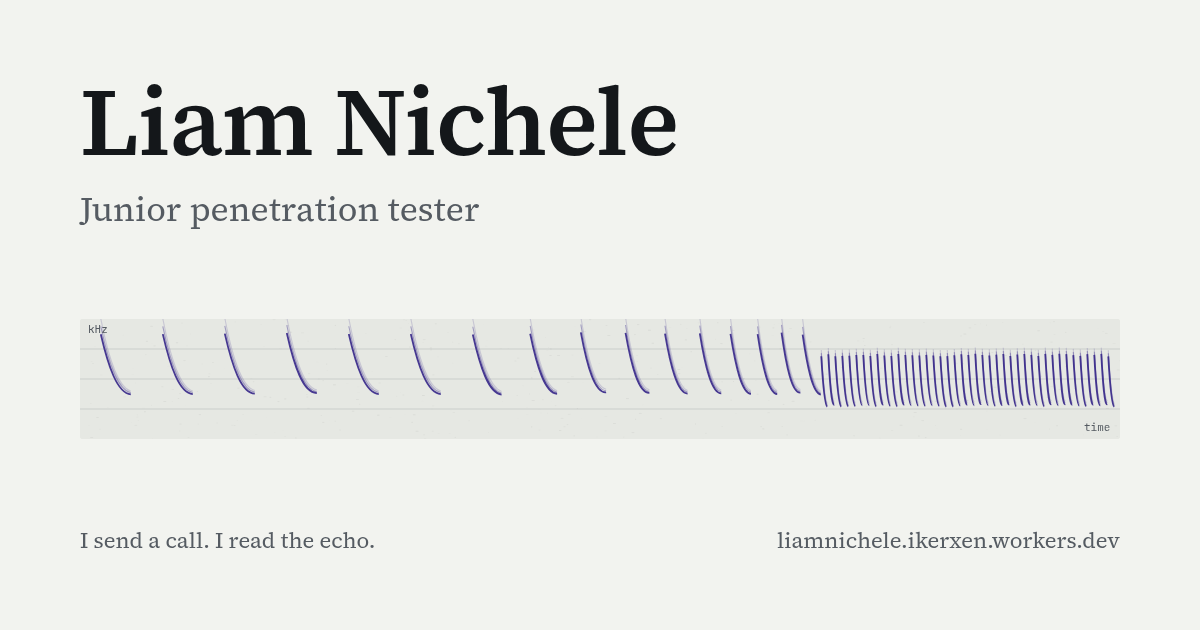
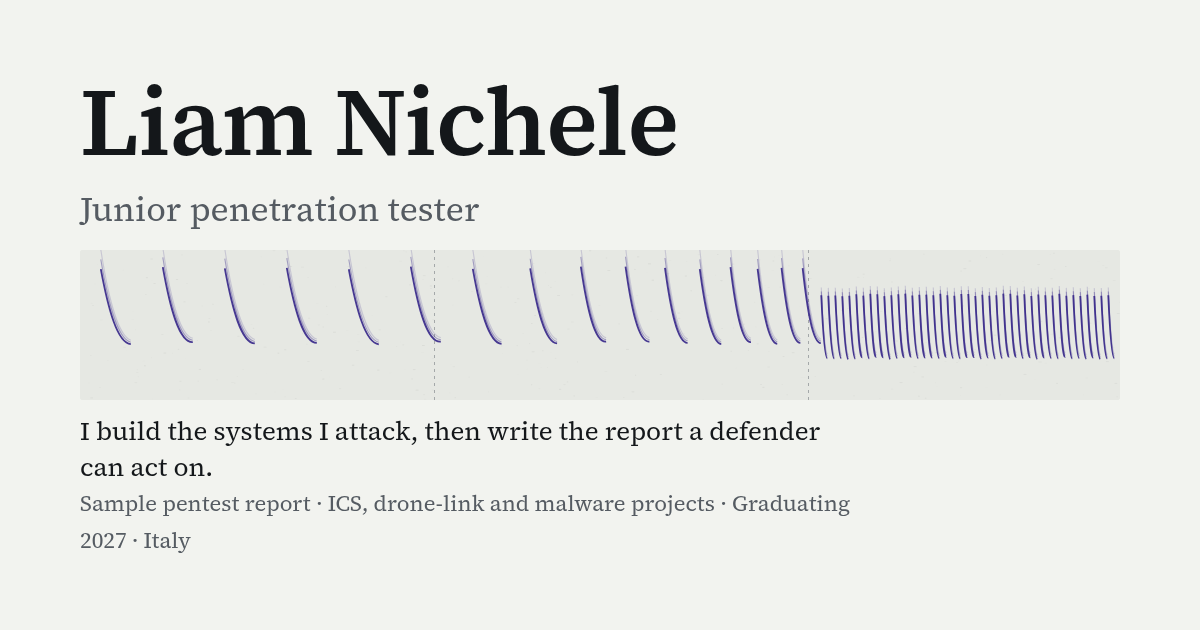
Remove hero spectrogram and slogan; label the bat-hunt illustration in How I work; drop axes; new og image

diff --git a/site-deploy/js/site.js b/site-deploy/js/site.js
@@ -1,11 +1,10 @@
-/* The only moving element: the bat-call spectrogram in the hero. It draws once on load (about 1.2 s)
-   and the "Send a call" button replays it. The second spectrogram in "How I work" is static.
-   Reduced motion: the final frame is drawn at once and the button is hidden by CSS.
-   The animation loop only runs while a draw is in progress, and stops if the tab is hidden. */
+/* One illustration, drawn once: the bat-hunt spectrogram in "How I work". It is static, nothing moves.
+   Search calls are slow and long, approach calls get faster and shorter, the terminal buzz is rapid.
+   Redrawn only on resize or when the colour scheme changes. No axes or scale: it is an illustration. */
 (function () {
   "use strict";
-  var reduce = window.matchMedia("(prefers-reduced-motion: reduce)").matches;
   var dpr = Math.min(window.devicePixelRatio || 1, 2);
+  var canvas = document.getElementById("spec2");
 
   function css(name) { return getComputedStyle(document.documentElement).getPropertyValue(name).trim(); }
   function rand(seed) { var s = seed; return function () { s = (s * 16807) % 2147483647; return s / 2147483647; }; }
@@ -14,9 +13,8 @@
     return "rgba(" + parseInt(h.substr(0, 2), 16) + "," + parseInt(h.substr(2, 2), 16) + "," + parseInt(h.substr(4, 2), 16) + "," + a + ")";
   }
 
-  /* Draw the hunt from the left edge up to progress (0..1). Search calls are slow and long, approach calls
-     get faster and shorter, the terminal buzz is rapid, short and lower. */
-  function draw(canvas, progress) {
+  function draw() {
+    if (!canvas) return;
     var w = canvas.clientWidth, h = canvas.clientHeight;
     if (!w || !h) return;
     var bw = Math.round(w * dpr), bh = Math.round(h * dpr);
@@ -26,14 +24,16 @@
     var bg = css("--exhibit"), ink = css("--ink"), muted = css("--muted"), accent = css("--accent");
     g.fillStyle = bg; g.fillRect(0, 0, w, h);
     var r = rand(42);
-    for (var i = 0; i < 500; i++) {
-      g.fillStyle = rgba(ink.length === 7 ? ink : "#888888", r() * 0.05);
+    for (var i = 0; i < 450; i++) {
+      g.fillStyle = rgba(ink, r() * 0.05);
       g.fillRect(r() * w, r() * h, 1 + r() * 2, 1);
     }
-    g.strokeStyle = rgba(muted.length === 7 ? muted : "#888888", 0.18); g.lineWidth = 1;
-    for (var k = 1; k < 4; k++) { g.beginPath(); g.moveTo(0, h * k / 4); g.lineTo(w, h * k / 4); g.stroke(); }
-    var limit = w * progress, x = w * 0.02;
-    while (x < w * 0.99 && x <= limit) {
+    /* phase boundaries, matching the labels above and below the picture */
+    g.strokeStyle = rgba(muted, 0.45); g.lineWidth = 1; g.setLineDash([3, 4]);
+    [0.34, 0.7].forEach(function (p) { g.beginPath(); g.moveTo(Math.round(w * p) + 0.5, 0); g.lineTo(Math.round(w * p) + 0.5, h); g.stroke(); });
+    g.setLineDash([]);
+    var x = w * 0.02;
+    while (x < w * 0.99) {
       var p = x / w;
       var gap = p < 0.34 ? 62 : p < 0.7 ? 62 - (p - 0.34) / 0.36 * 44 : 7;
       var len = p < 0.34 ? 30 : p < 0.7 ? 30 - (p - 0.34) / 0.36 * 12 : 6;
@@ -51,43 +51,13 @@
       }
       x += gap;
     }
-    g.fillStyle = muted; g.font = "11px 'JetBrains Mono',monospace";
-    g.fillText("kHz", 8, 14);
-    g.fillText("time", w - 36, h - 8);
   }
-
-  var hero = document.getElementById("spec");
-  var still = document.getElementById("spec2");
-  var raf = 0;
-
-  function play() {
-    if (!hero) return;
-    if (reduce) { draw(hero, 1); return; }
-    if (raf) cancelAnimationFrame(raf);
-    var t0 = null, dur = 1200;
-    function step(ts) {
-      if (document.hidden) { raf = 0; draw(hero, 1); return; }
-      if (t0 === null) t0 = ts;
-      var p = Math.min(1, (ts - t0) / dur);
-      draw(hero, p);
-      raf = p < 1 ? requestAnimationFrame(step) : 0;
-    }
-    raf = requestAnimationFrame(step);
-  }
-
-  function renderStill() { if (hero && !raf) draw(hero, 1); if (still) draw(still, 1); }
-
-  var btn = document.getElementById("send");
-  if (btn) btn.addEventListener("click", play);
 
   var rt = 0;
-  window.addEventListener("resize", function () { window.clearTimeout(rt); rt = window.setTimeout(renderStill, 150); });
+  window.addEventListener("resize", function () { window.clearTimeout(rt); rt = window.setTimeout(draw, 150); });
   if (window.matchMedia) {
     var mq = window.matchMedia("(prefers-color-scheme: dark)");
-    if (mq.addEventListener) mq.addEventListener("change", renderStill);
+    if (mq.addEventListener) mq.addEventListener("change", draw);
   }
-
-  function init() { if (still) draw(still, 1); play(); }
-  if (document.readyState === "loading") document.addEventListener("DOMContentLoaded", init); else init();
-  if (document.fonts && document.fonts.ready) document.fonts.ready.then(renderStill);
+  if (document.readyState === "loading") document.addEventListener("DOMContentLoaded", draw); else draw();
 })();

diff --git a/site-deploy/css/site.css b/site-deploy/css/site.css
@@ -60,15 +60,11 @@ section > .wide > h2:first-child,.section-head{border-top:1px solid var(--rule);
 .hero .line{font-size:1.25rem;line-height:1.55;max-width:40ch;margin-bottom:var(--s5)}
 .facts{list-style:none;color:var(--muted);font-size:.9375rem;margin-bottom:var(--s5)}
 .facts li{padding:2px 0}
-.actions{display:flex;flex-wrap:wrap;gap:var(--s3);margin-bottom:var(--s7)}
+.actions{display:flex;flex-wrap:wrap;gap:var(--s3)}
 .btn{display:inline-flex;align-items:center;justify-content:center;min-height:44px;padding:var(--s2) var(--s5);
   font:600 1rem/1.2 var(--serif);text-decoration:none;border:1px solid var(--accent);color:var(--accent);background:none;cursor:pointer;border-radius:3px}
 .btn.primary{background:var(--accent);color:var(--paper)}
 .btn:hover{text-decoration:underline;text-underline-offset:3px}
-.strip{margin:0}
-#spec,#spec2{display:block;width:100%;height:120px;background:var(--exhibit);border-radius:3px}
-.strip figcaption{display:flex;flex-wrap:wrap;gap:var(--s3);align-items:center;justify-content:space-between;margin-top:var(--s3);color:var(--muted);font-style:italic;font-size:.9375rem}
-.send{min-height:44px;padding:var(--s2) var(--s4);font:400 .9375rem/1.2 var(--serif);font-style:normal}
 
 /* findings table */
 .tblwrap{overflow-x:auto}
@@ -112,10 +108,15 @@ details p{margin:var(--s2) 0 var(--s3);font-size:1rem;color:var(--ink)}
 .rq li{padding:var(--s2) 0 var(--s2) 3.25rem;position:relative;border-top:1px solid var(--rule);font-size:1rem}
 .rq li b{position:absolute;left:0;font:400 .8125rem/1.9 var(--mono);color:var(--muted)}
 .timeline-line{color:var(--muted);font-size:.9375rem;margin-top:var(--s4)}
-.phases{display:grid;grid-template-columns:34fr 36fr 30fr;gap:var(--s5);margin-top:var(--s4)}
-.phases h3{font-size:1.125rem;margin-bottom:var(--s1)}
+.hunt{margin:var(--s5) 0 0}
+.hunt-top,.hunt-bottom{display:grid;grid-template-columns:34fr 36fr 30fr}
+.hunt-top span{font-weight:600;font-size:1.0625rem;padding:0 var(--s2) var(--s2);border-left:1px solid var(--rule)}
+.hunt-bottom span{font-size:.9375rem;color:var(--muted);padding:var(--s2) var(--s2) 0;border-left:1px solid var(--rule)}
+.hunt-top span:first-child,.hunt-bottom span:first-child{border-left:0;padding-left:0}
+#spec2{display:block;width:100%;height:140px;background:var(--exhibit);border-radius:3px}
+.hunt figcaption{margin-top:var(--s3);color:var(--muted);font-style:italic;font-size:.875rem}
+.phases{display:grid;grid-template-columns:34fr 36fr 30fr;gap:var(--s5);margin-top:var(--s5)}
 .phases p{font-size:1rem;color:var(--ink)}
-.phases .muted{font-size:.875rem;display:block}
 .rules{margin-top:var(--s7)}
 .rules ol{padding-left:1.4em}
 .rules li{margin:var(--s2) 0}
@@ -165,7 +166,10 @@ footer .wide{display:flex;justify-content:space-between;gap:var(--s4);flex-wrap:
   section{padding-top:var(--s8)}
   nav a:not(.keep){display:none}
   .also ul{grid-template-columns:1fr}
-  .phases{grid-template-columns:1fr}
+  .phases{grid-template-columns:1fr;gap:var(--s3)}
+  .hunt-top span{font-size:.9375rem;padding-left:var(--s1);padding-right:0}
+  .hunt-bottom span{font-size:.8125rem;padding-left:var(--s1);padding-right:0}
+  #spec2{height:110px}
   .case dl{grid-template-columns:1fr;gap:0} .case dd{margin-bottom:var(--s3)}
   .wide{padding:0 var(--s4)}
   /* findings as stacked blocks */
@@ -181,11 +185,10 @@ footer .wide{display:flex;justify-content:space-between;gap:var(--s4);flex-wrap:
 @media (prefers-reduced-motion:reduce){
   html{scroll-behavior:auto}
   *,*::before,*::after{animation:none!important;transition:none!important}
-  .send{display:none}
 }
 @media print{
   :root{--paper:#fff;--ink:#111;--muted:#444;--rule:#bbb;--accent:#222;--exhibit:#f1f1f1;--sev-high:#8a1f14;--sev-med:#7a4d00}
-  header,.skip,.after .btn,.actions,.send,.back{display:none}
+  header,.skip,.after .btn,.actions,.back{display:none}
   body{font-size:11pt;line-height:1.5}
   .rpt .wide{max-width:none;padding:0}
   .finding,.rpt pre,table tr{page-break-inside:avoid}

diff --git a/site-deploy/index.html b/site-deploy/index.html
@@ -56,10 +56,6 @@
       <a class="btn primary" href="mailto:liamnichele@icloud.com">Email me</a>
       <a class="btn" href="/cv/Liam-Nichele-CV.pdf">Download CV (PDF)</a>
     </div>
-    <figure class="strip">
-      <canvas id="spec" role="img" aria-label="Spectrogram of a bat hunt. Calls get faster and shorter from left to right."></canvas>
-      <figcaption><span>I send a call. I read the echo.</span><button class="btn send" id="send" type="button">Send a call</button></figcaption>
-    </figure>
   </div>
 </section>
 
@@ -250,14 +246,17 @@ ATT&amp;CK  : T1029, T1071, T1571, +2 more</pre>
 <section id="method">
   <div class="wide">
     <h2>How I work</h2>
-    <p class="lead">A hunting bat changes its call as it closes in: slow, long calls while searching, faster ones on approach, then a rapid terminal buzz. That is also how I run an engagement.</p>
-    <figure class="strip">
-      <canvas id="spec2" role="img" aria-label="Spectrogram of a bat hunt in three phases: search, approach and terminal buzz."></canvas>
+    <p class="lead">I work like a hunting bat: wide and slow at first, then faster and more precise as I close in.</p>
+    <figure class="hunt">
+      <div class="hunt-top" aria-hidden="true"><span>Search</span><span>Approach</span><span>Terminal buzz</span></div>
+      <canvas id="spec2" role="img" aria-label="Illustration of a bat hunt in three phases. Search: slow, long calls. Approach: faster calls. Terminal buzz: a rapid burst."></canvas>
+      <div class="hunt-bottom" aria-hidden="true"><span>recon</span><span>enumeration</span><span>action</span></div>
+      <figcaption>I send a call. I read the echo.</figcaption>
     </figure>
     <div class="phases">
-      <div><h3>Search</h3><span class="muted">Recon and scoping</span><p>Read the scope and rules of engagement. Passive first, then active. Map what exists before touching it.</p></div>
-      <div><h3>Approach</h3><span class="muted">Enumeration and analysis</span><p>Services, versions, users, paths. Work out what is exploitable and why.</p></div>
-      <div><h3>Terminal buzz</h3><span class="muted">Action and report</span><p>Short and precise, only inside scope. Then write it up so someone else can reproduce and fix it.</p></div>
+      <p><strong>Search.</strong> Read the scope and rules of engagement. Passive first, then active. Map what exists before touching it.</p>
+      <p><strong>Approach.</strong> Services, versions, users, paths. Work out what is exploitable and why.</p>
+      <p><strong>Terminal buzz.</strong> Short and precise, only inside scope. Then write it up so someone else can reproduce and fix it.</p>
     </div>
     <div class="rules">
       <h3>Rules I work by</h3>
